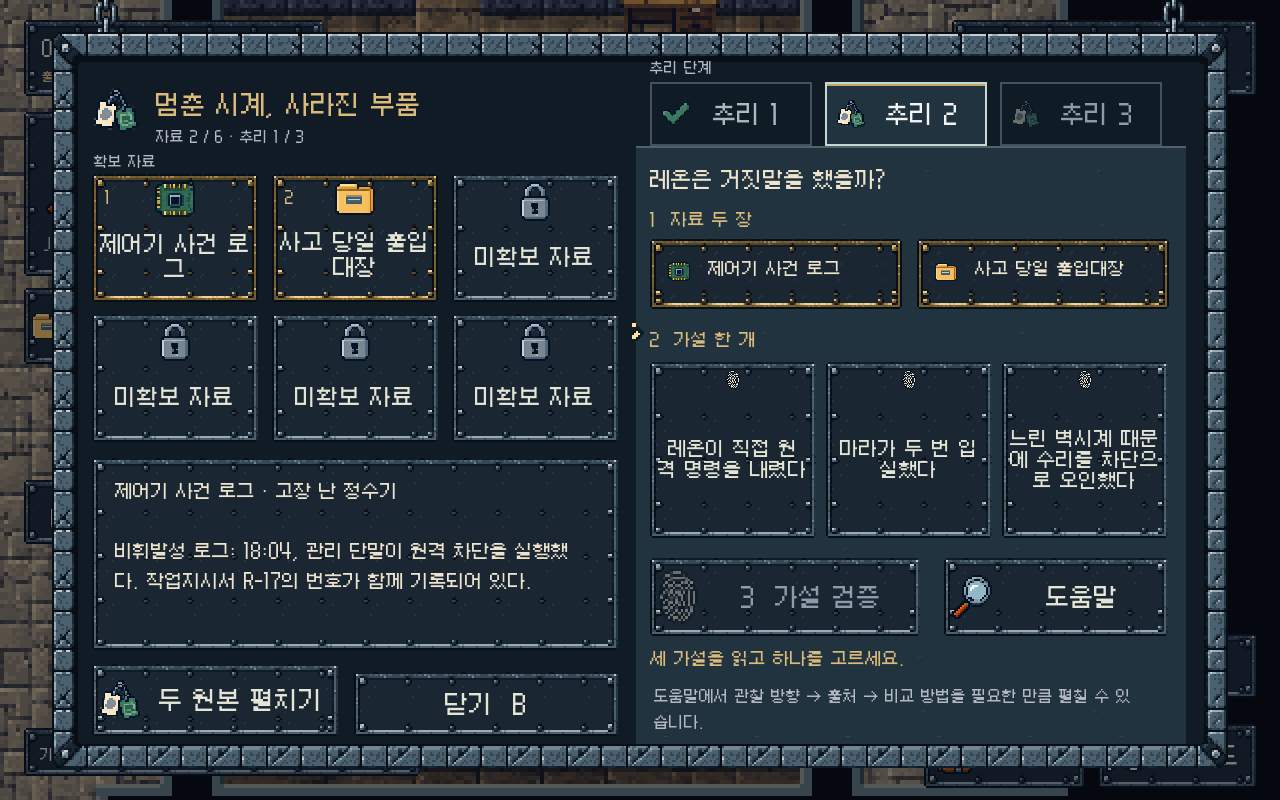
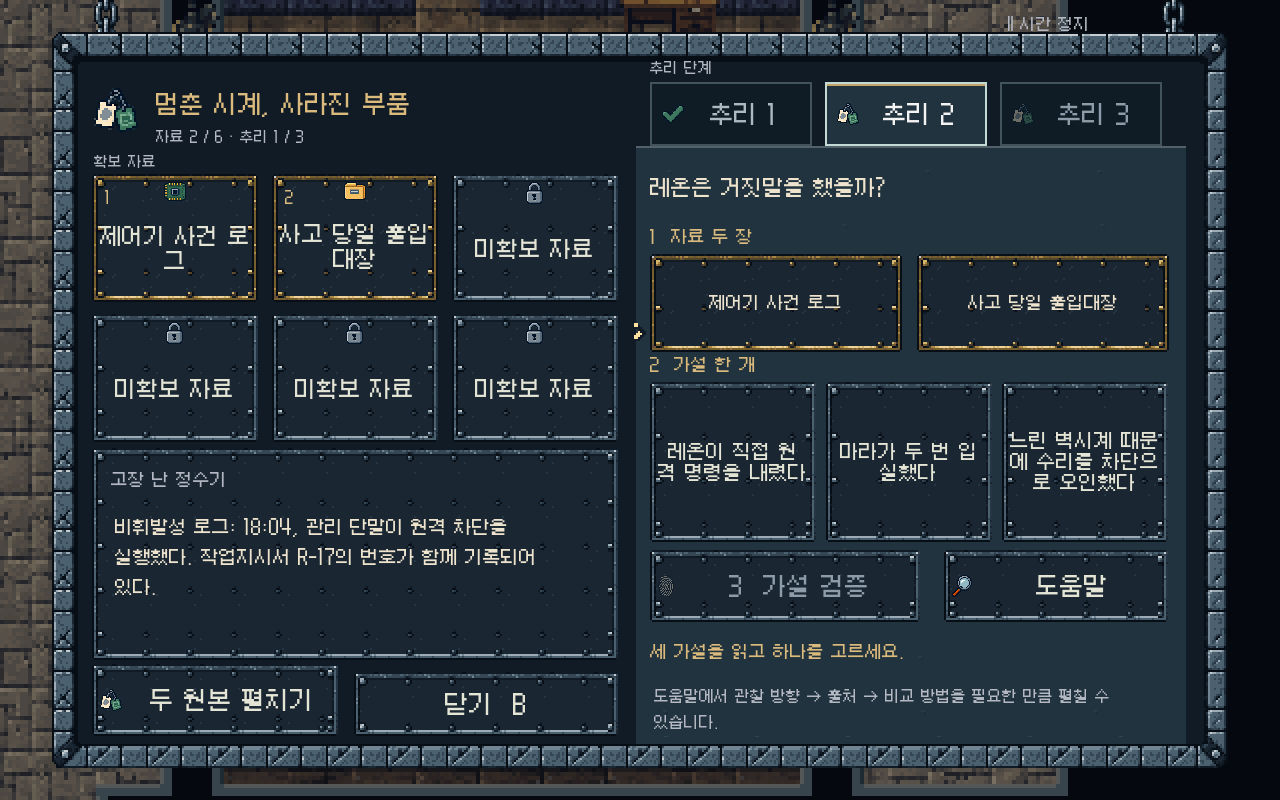
Refresh Breakout Protocol gameplay and UI gallery
Replace 14 outdated screenshots with current Korean Godot captures and add document reading and optional-mission notes. Preserve the cover, banner, game description, rating, release status, platform links, and other games. Record capture provenance and lossless conversion in MEDIA.md.

diff --git a/games/breakout-protocol/MEDIA.md b/games/breakout-protocol/MEDIA.md
@@ -35,3 +35,18 @@
 | screenshot-12-visitation.webp | `qa/stove-20261012/earned/view-friend.json` · 면회 연출 직접 열기 |
 | screenshot-13-railway.webp | `qa/stove-20261012/earned/yujin-freight-train-ready.json` |
 | screenshot-14-submarine.webp | `qa/stove-20261012/earned/outer-ready-2.json` |
+
+## 2026-10-27 · 최신 인게임 화면으로 교체
+
+기존 14장 모두 현재 개발 소스로 다시 촬영해 동일 파일을 교체하고, 문서 읽기와 선택 미션의 관찰 기록 2장을 추가해 총 16장으로 구성했습니다. 이전 이미지는 갤러리에 남기지 않았으며 Git 이력에서 확인할 수 있습니다. 대표 키 아트·배너, 소개 본문, 등급·출시 상태와 플랫폼 링크는 유지했습니다.
+
+소지품의 목록/본문 분리와 전체 읽기, 대화·수사 수첩의 정렬, 일과의 실제 남은 시간, 선택형 경로 도움, 현재 인물·시설·외부 이동수단 리소스, 13개 탈출 경로 집계를 반영했습니다. 문서와 선택 미션은 관찰 단계만 소개하며 정답 선택이나 엔딩은 추가하지 않았습니다.
+
+한 번에 하나의 Godot 4.5.2 클라이언트에서 1280×800·한국어·기본 글씨 크기로 촬영했습니다. 기존 14장은 위에 기록된 실제 진행 QA 체크포인트를 복구하고 현재 UI를 열었습니다. 컬렉션은 기존과 동일한 3개 진행 기록을 메모리에서 집계했습니다. 면회는 작성된 연출을 직접 열었습니다. 문서는 이미 확보한 원본을 열었으며, 선택 미션은 기존 체크포인트에서 각 관련 사물의 실제 발견 행동을 수행해 관찰 기록을 모았습니다. 새로운 완주 플레이나 배포 빌드 검수를 의미하지 않습니다.
+
+| 추가 이미지 | 촬영 출처 |
+| --- | --- |
+| screenshot-15-document.webp | `qa/v46/mara-deduction-0.json`에서 확보한 사고 당일 출입대장 |
+| screenshot-16-life-notes.webp | `qa/stove-20261012/earned/view-friend.json` 복구 후 책갈피 미션 발견·관찰 행동 |
+
+WebP는 RGB 픽셀을 그대로 보존한 무손실 변환입니다. 촬영 과정은 전용 임시 사용자 경로에서 실행했고 실제 플레이어 저장·설정·컬렉션이 바뀌지 않았음을 확인했습니다. 게임 빌드 및 STOVE 심사 자료는 수정하지 않았습니다.
